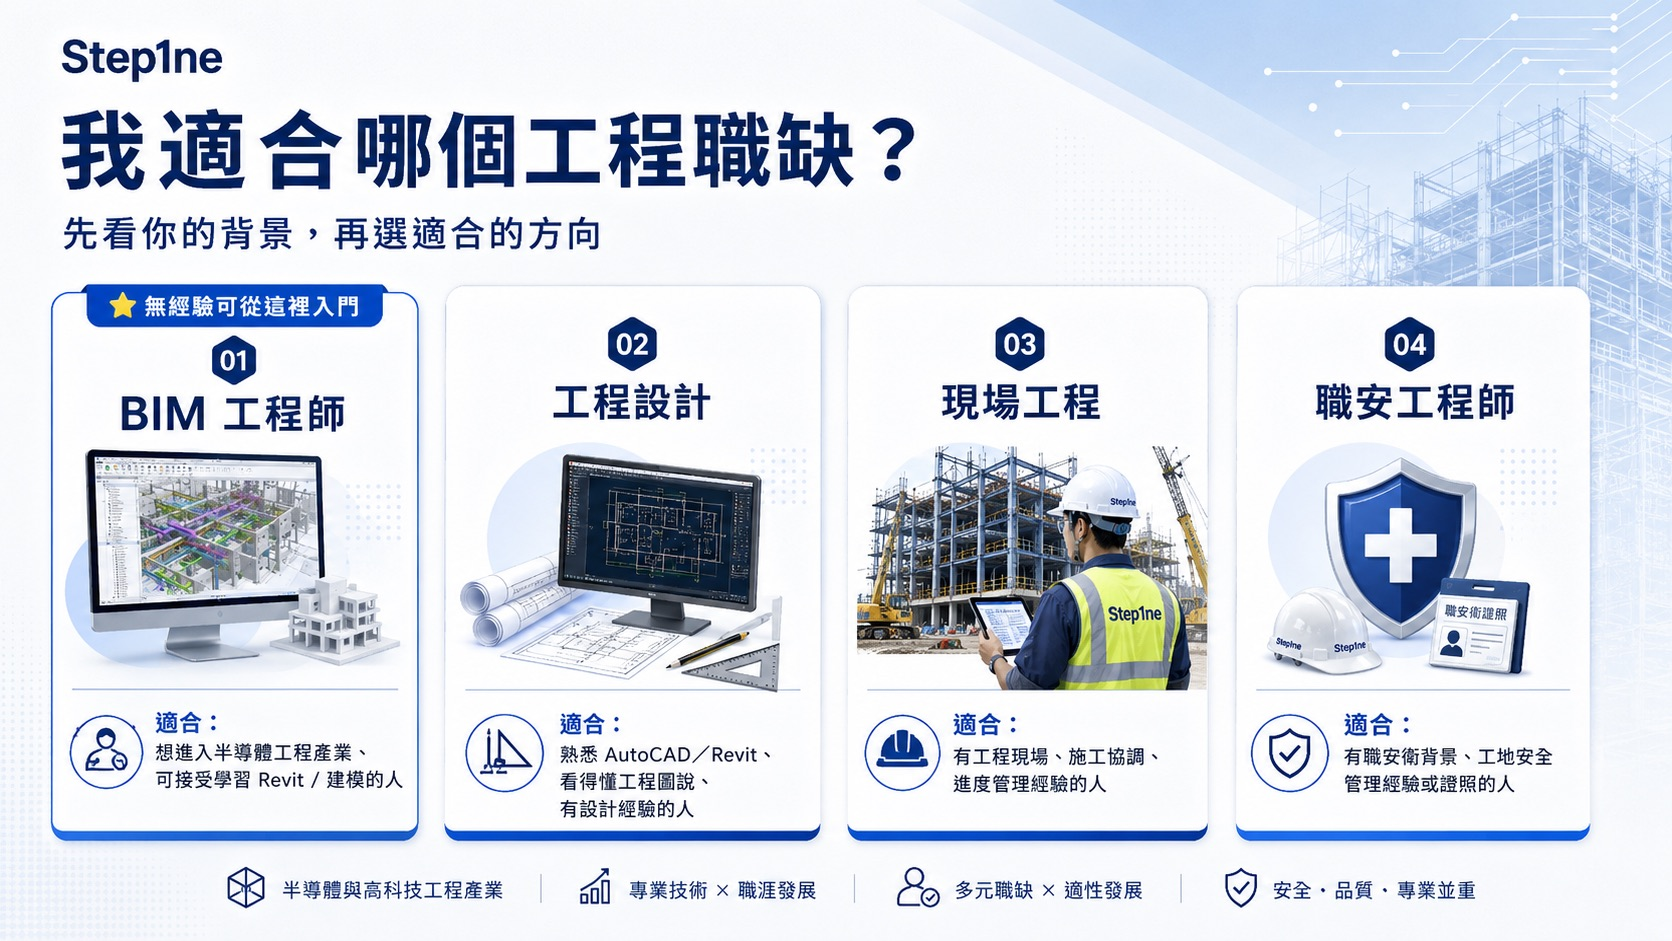
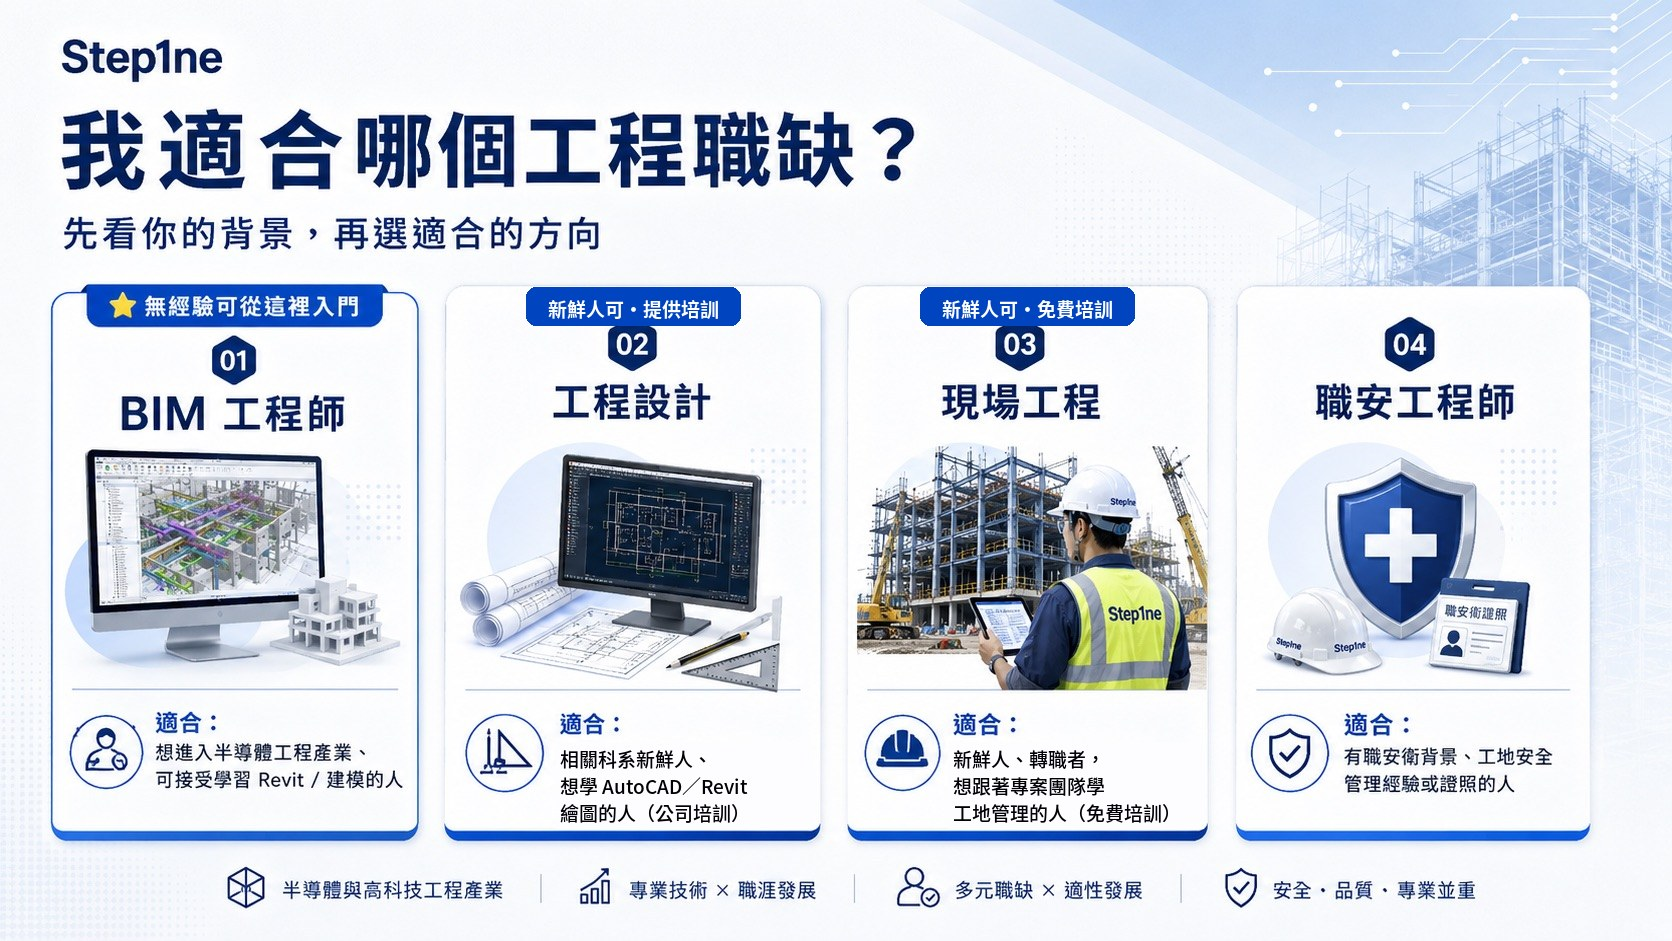
營造專區「我適合哪個工程職缺」圖：工程設計、現場工程改為新鮮人可＋培訓說明（對應連到培訓職缺）

diff --git a/construction/index.html b/construction/index.html
@@ -205,8 +205,8 @@ section.blk{padding:44px 0 0;}
 <div class="eyebrow">職涯方向</div>
 <h2>我適合哪個工程職缺？</h2>
 <p style="color:#6b6e77;font-size:14.5px;margin:0">先看你的背景，再選適合的方向——BIM 完全無經驗也能從這裡入門。</p>
-<picture><source srcset="/assets/construction/which-job-fits-you.webp" type="image/webp">
-<img src="/assets/construction/which-job-fits-you.jpg" alt="四種工程職缺方向：BIM工程師、工程設計、現場工程、職安工程師，各自適合的背景說明" style="width:100%;border-radius:16px;margin-top:18px;display:block"></picture>
+<picture><source srcset="/assets/construction/which-job-fits-you.webp?v=20261019" type="image/webp">
+<img src="/assets/construction/which-job-fits-you.jpg?v=20261019" alt="四種工程職缺方向：BIM工程師、工程設計、現場工程、職安工程師；工程設計與現場工程新鮮人可、提供培訓" style="width:100%;border-radius:16px;margin-top:18px;display:block"></picture>
 <div class="fitgrid">
 <a class="fitcard" href="/jobs/bim-engineer-houli/"><span class="n">01</span><b>BIM 工程師</b><span>無經驗可從這裡入門，想進半導體工程產業</span></a>
 <a class="fitcard" href="/jobs/trainee-engineering-design-engineer/"><span class="n">02</span><b>工程設計</b><span>相關科系新鮮人可，公司提供軟體繪圖培訓</span></a>
